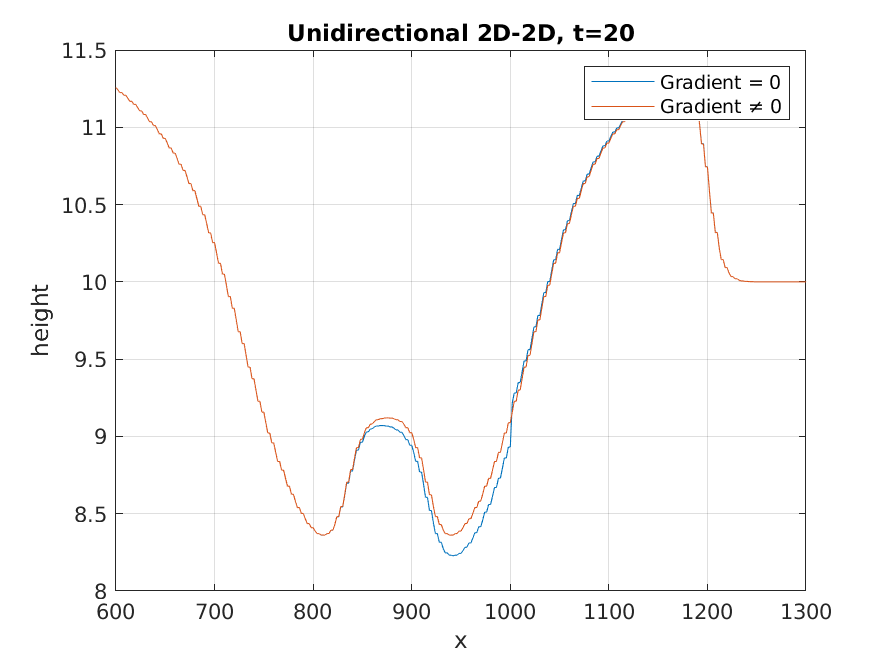
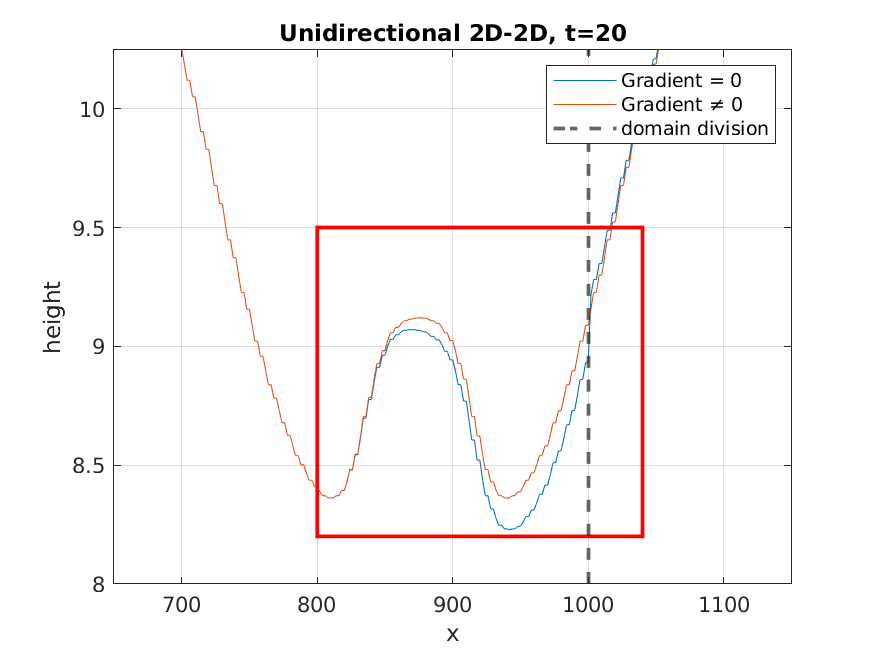
add line division and rectangle

diff --git a/Resources/Images/plot_data.m b/Resources/Images/plot_data.m
@@ -11,12 +11,14 @@ x = unidirectioanlArr_g0(:, 7);
 
 figure
 plot(x, h_uni_g0, x, h_uni_g)
-axis([600, 1300, 8, 11.5])
+xline(1000, '--', 'LineWidth', 1.8)
+rectangle('Position',[800 8.2 240 1.3],'EdgeColor','r', 'LineWidth', 1.8)
+axis([650, 1150, 8, 10.25])
 grid on
 title('Unidirectional 2D-2D, t=20')
 xlabel('x')
 ylabel('height')
-legend('Gradient = 0', 'Gradient \neq 0');
+legend('Gradient = 0', 'Gradient \neq 0', 'domain division');
 saveas(gcf,'unidirectional_graph.png')
 
 bidirectionalArr_g_0=csvread('bi_data_g0.csv');
@@ -28,12 +30,14 @@ h_bidi_g_bueno = bidirectionalArr_g_bueno(:, 1);
 
 figure
 plot(x, h_bidi_g_0, x, h_bidi_g_bueno)
-axis([600, 1300, 8, 11.5])
+xline(1000, '--', 'LineWidth', 1.8)
+rectangle('Position',[790 8.2 410 2.6],'EdgeColor','r', 'LineWidth', 1.8)
+axis([700, 1250, 8, 11.25])
 grid on
 title('Bidirectional 2D-2D, t=20')
 xlabel('x')
 ylabel('height')
-legend('Gradient = 0', 'Gradient \neq 0');
+legend('Gradient = 0', 'Gradient \neq 0', 'domain division');
 saveas(gcf,'bidirectional_graph.png')
 
 

diff --git a/Examples.tex b/Examples.tex
@@ -225,9 +225,9 @@ hv^2 + \frac{1}{2}gh^2\\
 \vspace{-0.5cm}
 {\large \hspace{3mm} 2D SWE - 2D SWE Unidirectional}\\
 Case: Radial dam break, no bathymetry
-\begin{textblock*}{5cm}(17cm,0.25cm) % {block width} (coords)
+\begin{textblock*}{1cm}(17cm,1pt) % {block width} (coords)
 %\begin{figure}
-\includegraphics[scale=0.2]{./Resources/Images/unidirectional0_g_0.png}
+\includegraphics[scale=0.22]{./Resources/Images/unidirectional0_g_0.png}
 %\caption{sadf}
 %\end{figure}
 \end{textblock*}
@@ -251,9 +251,9 @@ Case: Radial dam break, no bathymetry
 \vspace{-0.5cm}
 {\large \hspace{3mm} 2D SWE - 2D SWE Bidirectional}\\
 Case: Radial dam break, no bathymetry
-\begin{textblock*}{5cm}(17cm,0.25cm) % {block width} (coords)
+\begin{textblock*}{1cm}(17cm,1pt) % {block width} (coords)
 %\begin{figure}
-\includegraphics[scale=0.2]{./Resources/Images/bidirectional0_g_0.png}
+\includegraphics[scale=0.22]{./Resources/Images/bidirectional0_g_0.png}
 %\caption{sadf}
 %\end{figure}
 \end{textblock*}
